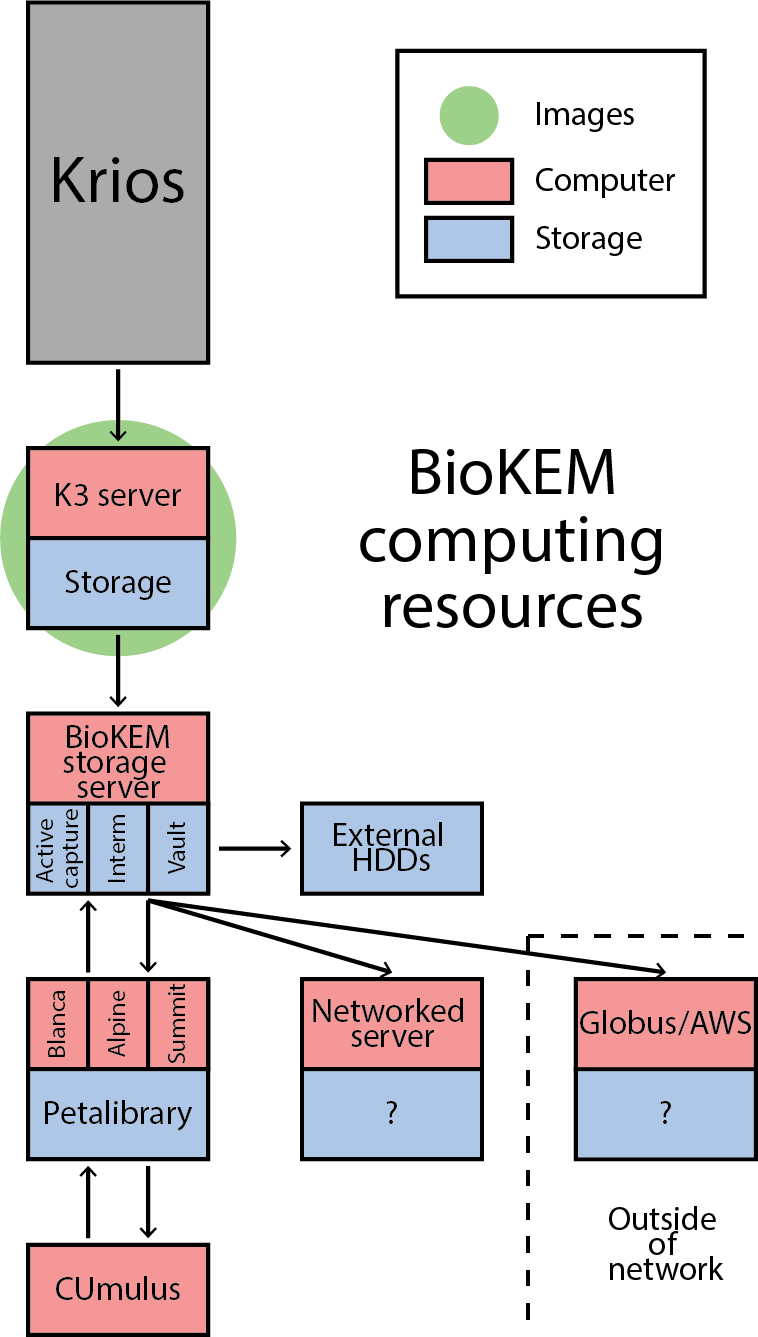
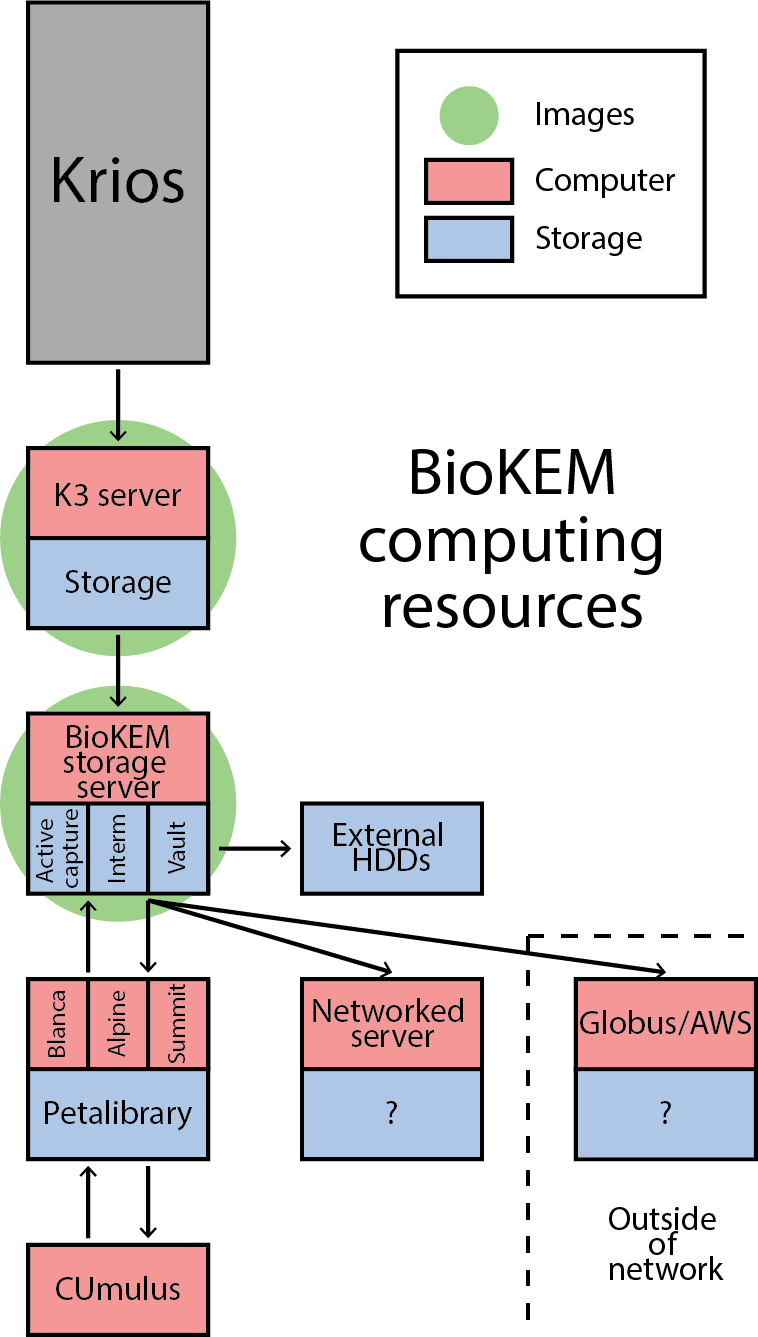
added some schematics

diff --git a/docs/source/storing.rst b/docs/source/storing.rst
@@ -25,6 +25,10 @@ The BioKEM facility has a number of storage devices for different applications:
 | Vault          | 58TB   | RAID6 | External | 3 months                   |
 +----------------+--------+-------+----------+----------------------------+
 
+.. image:: images/schematic_k3.png
+   :width: 300
+   :align: right
+
 .. _K3 server:
 
 K3 server

diff --git a/docs/source/processing/processing_resources.rst b/docs/source/processing/processing_resources.rst
@@ -58,6 +58,10 @@ interfaces, like ChimeraX. This is done through a web-based portal called
 `EnginFrame <https://www.colorado.edu/rc/resources/enginframe>`__ and is how
 even command line based computing should be done on Blanca.
 
+.. image:: ../images/schematic_cumulus.png
+   :width: 300
+   :align: right
+
 .. _CUmulus:
 
 CUmulus
